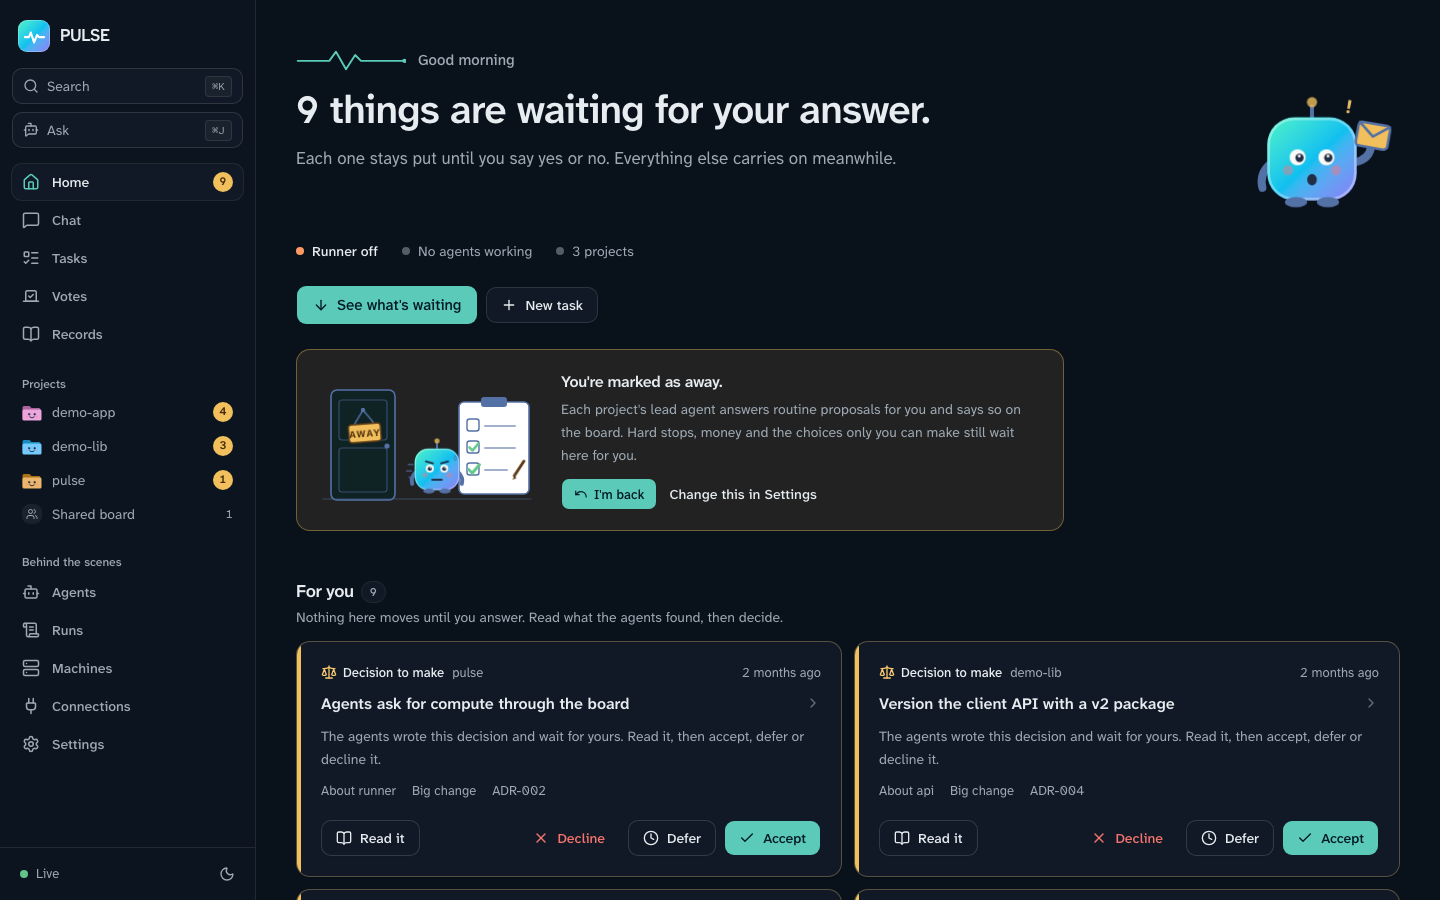
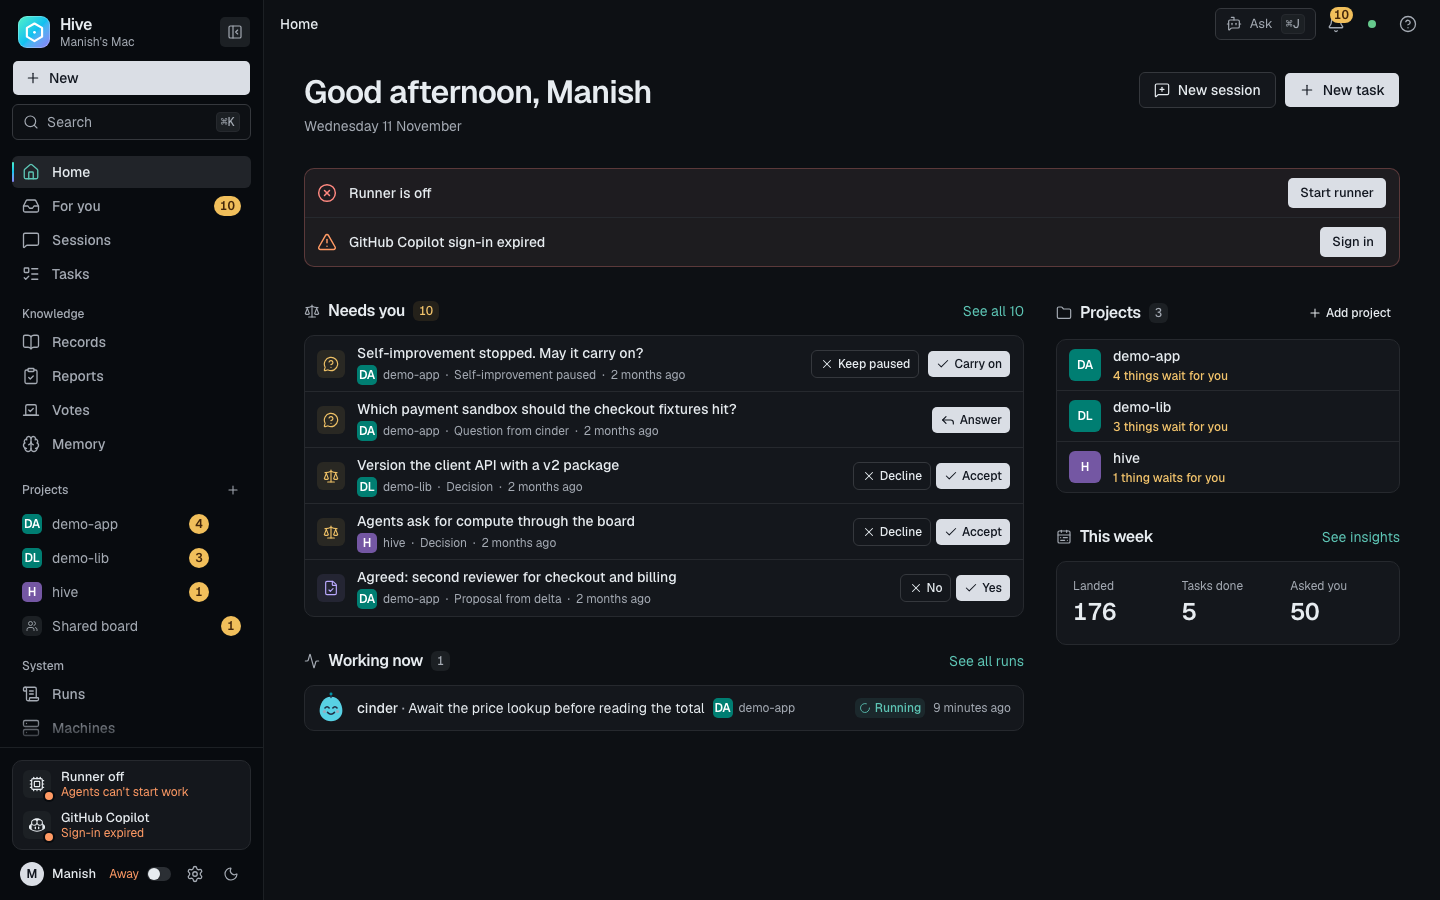
Point the repository at lamplitlabs/hive and show the Hive console in the README
The product became Hive on 2026-11-10 but the repository was still
lamplitlabs/pulse (renamed today, with a Hive description, hivefleet.dev as
its homepage and hive/rust/coding-agents/llm topics; GitHub redirects the
old names). Every URL in the tree still named manishtiwari25/pulse or
lamplitlabs/pulse: the README's install and clone commands, docs/release.md
and docs/development.md, Cargo.toml's repository, the OpenRouter
HTTP-Referer, the registry user-agent, the MCP OAuth client URI, the Mac
app's Help menu link, the hub's mock fixtures and the tests that check
them. All of them now say https://github.com/lamplitlabs/hive.

The three README console pictures were shot on 2026-11-01 with the PULSE
brand in the sidebar; they are fresh 1440x900 dark-theme shots of the same
pages (Home, the demo-app project, TASK-002's conversation) from the static
export served beside the fixture mock.

Kept on purpose: the build-info module path github.com/manishtiwari25/pulse
that hive version and the pair-hands inspection grep for in installed
binaries, the macOS bundle id io.github.manishtiwari25.pulse, and the
~/.pulse / PULSE_HOME / pulse.sqlite fallbacks that keep installs from
before the rename working.

Checks: cargo test of hive-store settings::, hive-provider-openai, hive-mcp
oauth and hive-runner security:: green; cargo fmt and clippy -D warnings on
the touched crates clean; web/hub reports.test.mjs 10 passed; swift test
ContextMenu passed.

diff --git a/apps/macos/Tests/HiveKitTests/ContextMenuTests.swift b/apps/macos/Tests/HiveKitTests/ContextMenuTests.swift
@@ -5,7 +5,7 @@ import Testing
 @Suite struct ContextMenuTests {
     static let policy = LinkPolicy(console: URL(string: "http://127.0.0.1:8765/")!)
     static let consoleLink = URL(string: "http://127.0.0.1:8765/tasks/abc")!
-    static let webLink = URL(string: "https://github.com/manishtiwari25/pulse/pull/37")!
+    static let webLink = URL(string: "https://github.com/lamplitlabs/hive/pull/37")!
 
     @Test func keepsTheTextCommandsAndDropsTheBrowsers() {
         for kept in ["WKMenuItemIdentifierCopy", "WKMenuItemIdentifierPaste", "WKMenuItemIdentifierLookUp",

diff --git a/apps/macos/Sources/Hive/AppDelegate.swift b/apps/macos/Sources/Hive/AppDelegate.swift
@@ -454,7 +454,7 @@ final class AppDelegate: NSObject, NSApplicationDelegate, NSMenuItemValidation {
     }
 
     @objc func showHiveHelp(_ sender: Any?) {
-        if let url = URL(string: "https://github.com/manishtiwari25/pulse/blob/main/docs/mac-app.md") {
+        if let url = URL(string: "https://github.com/lamplitlabs/hive/blob/main/docs/mac-app.md") {
             NSWorkspace.shared.open(url)
         }
     }

diff --git a/crates/hive-runner/src/security.rs b/crates/hive-runner/src/security.rs
@@ -1503,7 +1503,7 @@ mod tests {
     use std::cell::Cell;
 
     const NOW: &str = "2026-10-26T14:00:00Z";
-    const REPO: &str = "manishtiwari25/pulse";
+    const REPO: &str = "lamplitlabs/hive";
     const LOCK: &str = "web/hub/package-lock.json";
 
     fn setup() -> (TestStore, String) {
@@ -1511,7 +1511,7 @@ mod tests {
         let (_, root) = new_repo(&s);
         exec1(
             &s,
-            "UPDATE projects SET remote = 'https://github.com/manishtiwari25/pulse.git', verify_cmd = 'make check' WHERE slug = 'proj'",
+            "UPDATE projects SET remote = 'https://github.com/lamplitlabs/hive.git', verify_cmd = 'make check' WHERE slug = 'proj'",
             &[],
         );
         let hub = std::path::Path::new(&root).join("web/hub");
@@ -1733,8 +1733,8 @@ mod tests {
     #[test]
     fn github_repos_come_from_https_and_ssh_remotes() {
         assert_eq!(
-            github_repo("https://github.com/manishtiwari25/pulse.git").as_deref(),
-            Some("manishtiwari25/pulse")
+            github_repo("https://github.com/lamplitlabs/hive.git").as_deref(),
+            Some("lamplitlabs/hive")
         );
         assert_eq!(
             github_repo("git@github.com:lamplitlabs/website.git").as_deref(),

diff --git a/crates/hive-store/src/settings.rs b/crates/hive-store/src/settings.rs
@@ -2248,7 +2248,7 @@ mod go_settings_tests {
         assert_eq!(DAEMON_SETTINGS["update.latest_url"], "");
         assert!(daemon_setting_names().contains(&"update.latest_url".to_string()));
         assert_eq!(validate_setting("update.latest_url", "  ").unwrap(), "");
-        let gh = "https://api.github.com/repos/lamplitlabs/pulse/releases/latest";
+        let gh = "https://api.github.com/repos/lamplitlabs/hive/releases/latest";
         assert_eq!(
             validate_setting("update.latest_url", &format!(" {gh} ")).unwrap(),
             gh

diff --git a/crates/hive-runner/src/release_age.rs b/crates/hive-runner/src/release_age.rs
@@ -22,7 +22,7 @@ pub(crate) const ALERT_CHECK_MINUTES: &str = "dependencies.alert_check_minutes";
 pub(crate) const MAJOR_UPDATES: &str = "dependencies.major_updates";
 
 const REGISTRY_TIMEOUT: Duration = Duration::from_secs(20);
-const USER_AGENT: &str = "hive (https://github.com/manishtiwari25/pulse)";
+const USER_AGENT: &str = "hive (https://github.com/lamplitlabs/hive)";
 
 #[derive(Debug, Clone, Copy, PartialEq, Eq, PartialOrd, Ord)]
 pub(crate) enum Ecosystem {

diff --git a/crates/hive-mcp/src/oauth.rs b/crates/hive-mcp/src/oauth.rs
@@ -30,7 +30,7 @@ use std::sync::atomic::{AtomicBool, Ordering};
 use std::time::{Duration, Instant, SystemTime, UNIX_EPOCH};
 
 pub const CLIENT_NAME: &str = "Hive";
-pub const CLIENT_URI: &str = "https://github.com/manishtiwari25/pulse";
+pub const CLIENT_URI: &str = "https://github.com/lamplitlabs/hive";
 pub const SOFTWARE_ID: &str = "hive";
 /// Where grants live under the Hive home.
 pub const GRANT_DIR: &str = "secrets/mcp-oauth";

diff --git a/crates/hive-provider-openai/src/lib.rs b/crates/hive-provider-openai/src/lib.rs
@@ -177,7 +177,7 @@ pub const VENDORS: &[Vendor] = &[
         api_key_env: &["OPENROUTER_API_KEY"],
         base_url_env: &["OPENROUTER_BASE_URL"],
         extra_headers: &[
-            ("HTTP-Referer", "https://github.com/manishtiwari25/pulse"),
+            ("HTTP-Referer", "https://github.com/lamplitlabs/hive"),
             ("X-Title", "Hive"),
         ],
         default_model_prefixes: &[

diff --git a/crates/hive-provider-openai/src/tests.rs b/crates/hive-provider-openai/src/tests.rs
@@ -1187,7 +1187,7 @@ fn openrouter_sends_its_attribution_headers() {
     for (referer, title) in &saw {
         assert_eq!(
             referer.as_deref(),
-            Some("https://github.com/manishtiwari25/pulse")
+            Some("https://github.com/lamplitlabs/hive")
         );
         assert_eq!(title.as_deref(), Some("Hive"));
     }

diff --git a/README.md b/README.md
@@ -93,7 +93,7 @@ Nothing else: no Python, no other agent tool to install or keep logged in.
 
    ```bash
    mkdir -p ~/.hive/bin && cd "$(mktemp -d)"
-   gh release download --repo lamplitlabs/pulse --pattern "*-$(uname -m | sed s/arm64/aarch64/)-apple-darwin.tar.gz"
+   gh release download --repo lamplitlabs/hive --pattern "*-$(uname -m | sed s/arm64/aarch64/)-apple-darwin.tar.gz"
    tar -xzf hive-*.tar.gz && install -m 755 hive-*/hive ~/.hive/bin/hive
    export PATH="$HOME/.hive/bin:$PATH"                          # add to your shell profile
    hive version
@@ -102,7 +102,7 @@ Nothing else: no Python, no other agent tool to install or keep logged in.
    Or build from source (any platform with Rust and Node):
 
    ```bash
-   git clone https://github.com/lamplitlabs/pulse.git hive && cd hive
+   git clone https://github.com/lamplitlabs/hive.git hive && cd hive
    cargo install --path crates/hive --root ~/.hive --locked   # a release build; lands ~/.hive/bin/hive
    export PATH="$HOME/.hive/bin:$PATH"                          # add to your shell profile
    hive version

diff --git a/docs/development.md b/docs/development.md
@@ -157,7 +157,7 @@ their loops seed a constitution from the bundled template, their agents read
 the same guide.
 
 ```bash
-git clone https://github.com/manishtiwari25/pulse.git hive && cd hive
+git clone https://github.com/lamplitlabs/hive.git hive && cd hive
 cargo install --path crates/hive --root ~/.hive --locked
 hive hub                # add a project, click Keep Hive running - that is the whole setup
 hive seed status        # what this build carries against what the store has

diff --git a/docs/release.md b/docs/release.md
@@ -49,7 +49,7 @@ and every build falls back to `v0.0.0-...`.
 
 ```sh
 mkdir -p ~/.hive/bin && cd "$(mktemp -d)"
-gh release download --repo lamplitlabs/pulse --pattern "*-$(uname -m | sed s/arm64/aarch64/)-apple-darwin.tar.gz"
+gh release download --repo lamplitlabs/hive --pattern "*-$(uname -m | sed s/arm64/aarch64/)-apple-darwin.tar.gz"
 tar -xzf hive-*.tar.gz && install -m 755 hive-*/hive ~/.hive/bin/hive
 hive version
 ```
